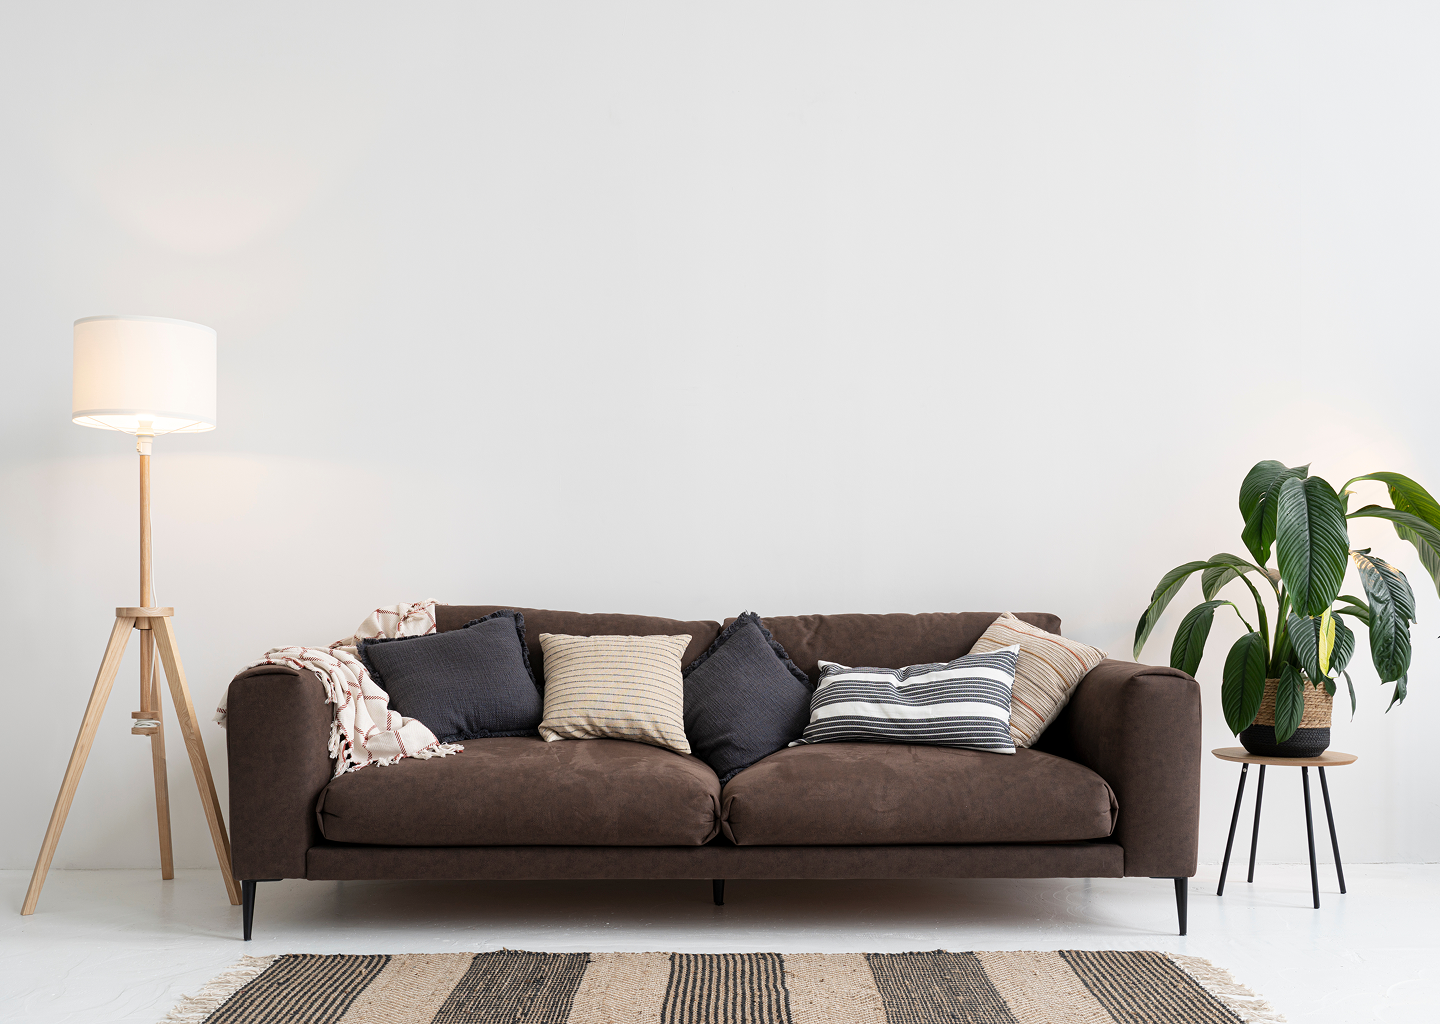
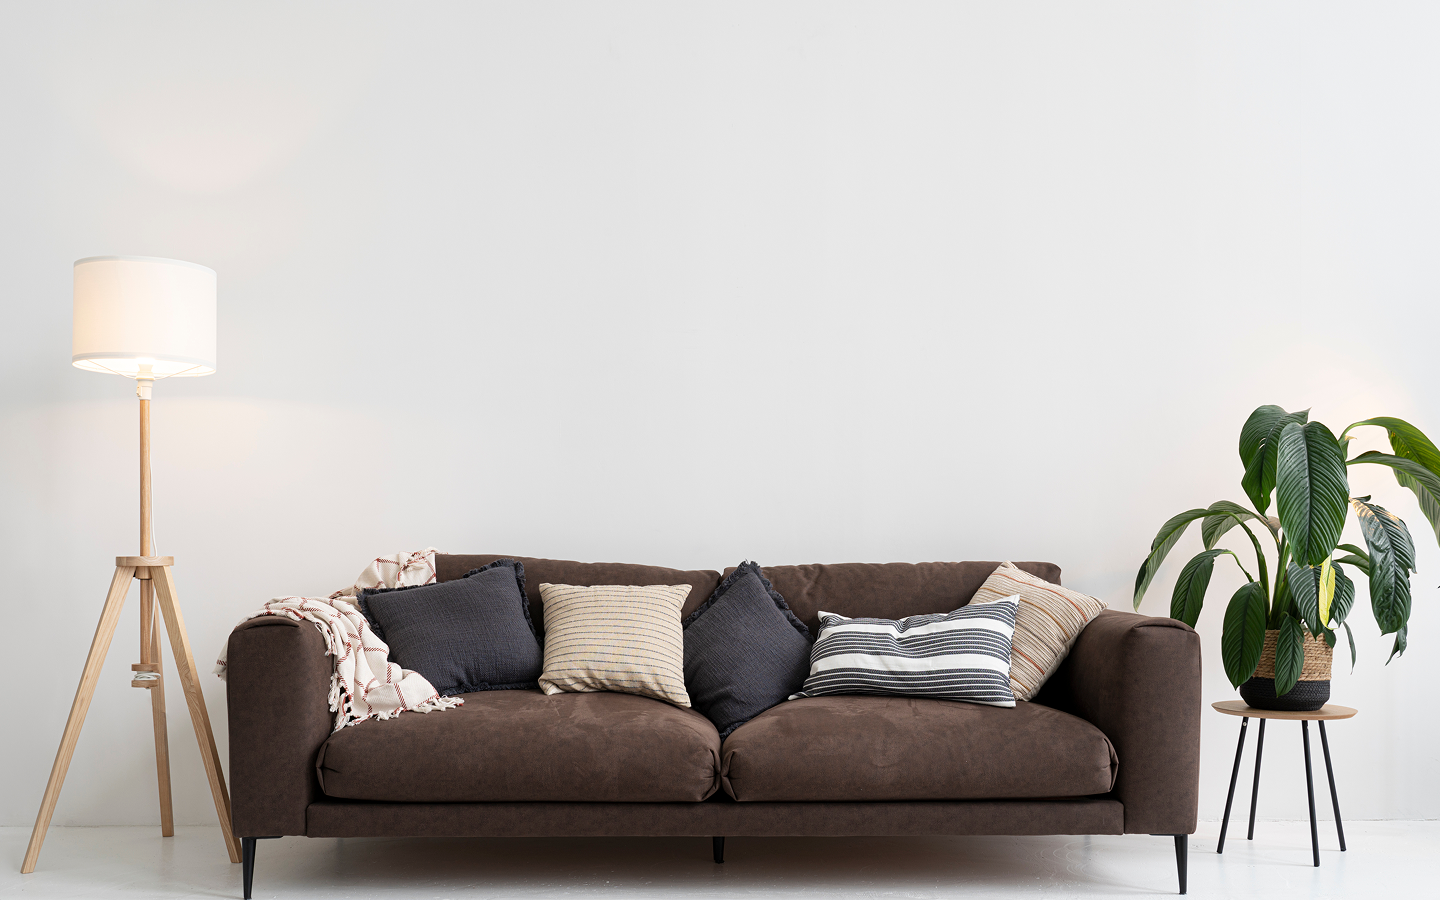
main

Changed region(s): [[0.0, 0.4356, 1.0, 1.0], [0.0312, 0.3733, 0.1562, 0.4356]]

diff --git a/index.html b/index.html
@@ -13,28 +13,28 @@
 <link href="https://fonts.googleapis.com/css2?family=Playfair+Display:ital,wght@0,400..900;1,400..900&family=Poppins:ital,wght@0,100;0,200;0,300;0,400;0,500;0,600;0,700;0,800;0,900;1,100;1,200;1,300;1,400;1,500;1,600;1,700;1,800;1,900&display=swap" rel="stylesheet">
   </head>
   <body>
-    <header>
-      <div class="header-top">
-        <div class="container">
-          <div class="contact-info">
-            <a href="tel:+380967891207">
-              <img src="./images/icon-phone.svg" alt="Іконка телефону" width="20" height="20" />
-              +38 (067) 478 12 54
-            </a>
-            <a href="mailto:aliyastore@gmail.com">
-              <img src="./images/icon-envelope.svg" alt="Іконка пошти" width="20" height="20" />
-              aliyastore@gmail.com
-            </a>
-          </div>
-          <div class="social-links">
-            <a href="#"><img src="./images/icon-instagram.svg" alt="Instagram" width="30" height="30" /></a>
-            <a href="#"><img src="./images/icon-facebook.svg" alt="Facebook" width="30" height="30" /></a>
-            <a href="#"><img src="./images/icon-twitter.svg" alt="Twitter" width="30" height="30" /></a>
-          </div>
-        </div>
-      </div>
-    </header>
        <section class="hero">
+        <header>
+          <div class="header-top">
+            <div class="container">
+              <div class="contact-info">
+                <a href="tel:+380967891207">
+                  <img src="./images/icon-phone.svg" alt="Іконка телефону" width="20" height="20" />
+                  +38 (067) 478 12 54
+                </a>
+                <a href="mailto:aliyastore@gmail.com">
+                  <img src="./images/icon-envelope.svg" alt="Іконка пошти" width="20" height="20" />
+                  aliyastore@gmail.com
+                </a>
+              </div>
+              <div class="social-links">
+                <a href="#"><img src="./images/icon-instagram.svg" alt="Instagram" width="30" height="30" /></a>
+                <a href="#"><img src="./images/icon-facebook.svg" alt="Facebook" width="30" height="30" /></a>
+                <a href="#"><img src="./images/icon-twitter.svg" alt="Twitter" width="30" height="30" /></a>
+              </div>
+            </div>
+          </div>
+        </header>
         <div class="container">
           <div class="header-bottom">
             <a href="./MAIN.html" class="logo">
@@ -392,7 +392,7 @@
       <div class="container">
         <div class="footer-top">
             <div class="footer-logo-container">
-              <img src="./images/logo.svg" alt="" class="footer-logo">
+              <img src="./images/logo-footer.svg" alt="" class="footer-logo">
               <p> <img src="./images/phone.svg" alt="" class="footer-contacts"> +38 (067) 478 12 54</p>
               <p> <img src="./images/marker.png" alt="" class="footer-contacts"> проспект Вячеслава Чорновола, 93, Львів, Україна</p>
             </div>
@@ -415,18 +415,9 @@
                     <button class="send-btn"><img src="./images/send.svg" alt=""></button>
                 </div>
                 <div class="social-icons">
-                  <img
-                    src="./images/Icon Footer Instagram.svg"
-                    alt="іконка інстаграму"
-                  />
-                  <img
-                    src="./images/Icon Footer Facebook.svg"
-                    alt="іконка фейсбук"
-                  />
-                  <img
-                    src="./images/Icon Footer Twitter.svg"
-                    alt="іконка твітеру"
-                  />
+                  <div class="icon-container"><img class="dsh" src="./images/icon-instagram.svg" alt=""></div>
+                  <div class="icon-container"><img src="./images/icon-facebook.svg" alt=""></div>
+                  <div class="icon-container"><img src="./images/icon-twitter.svg" alt=""></div>
                 </div>
               </div>
           </div>

diff --git a/css/style.css b/css/style.css
@@ -189,10 +189,11 @@ body {
   background-image: url('/images/hero.png');
   background-repeat: no-repeat;
   background-size: cover;
-  padding: 50px 0;
+  padding-bottom: 50px;
   text-align: center;
   background-color: #f3f3f3;
   height: 1224px;
+  margin-bottom: 50px;
 }
 
 .hero-content {
@@ -697,6 +698,21 @@ p {
   text-align: center;
 }
 
+.icon-container{
+  background-color: #534139;
+  width: 50px;
+  height: 50px;
+  border-radius: 100%;
+  display: flex;
+  align-items: center;
+  justify-content: center;
+}
+
+.icon-container img{
+  max-width: 30px;
+  max-height: 30px;
+}
+
 .news-date {
   position: absolute;
   top:253px;
@@ -767,14 +783,13 @@ p {
 .footer-logo{
   margin-bottom: 25px;
   width: 150px;
-  height: 60px;
+  height: 90px;
 }
 
 .footer-logo-container{
   display: flex;
   flex-direction: column;
   gap: 20px;
-  margin-top: 20px;
 }
 
 .footer-logo h2 {
